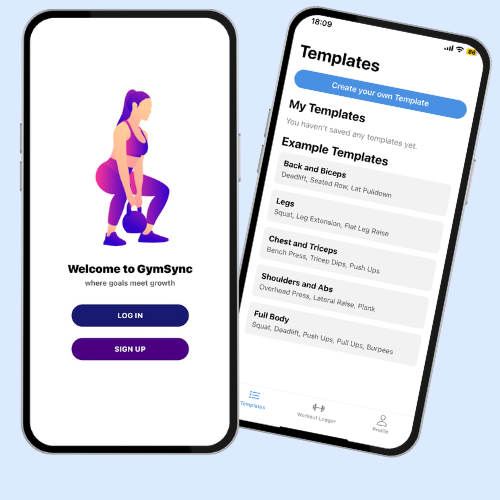
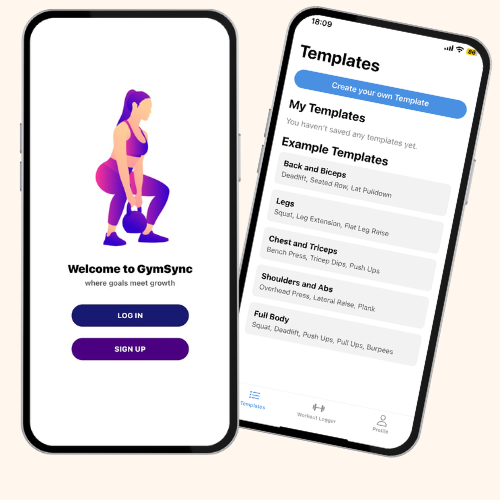
edits

Changed region(s): [[0.0, 0.0, 1.0, 1.0]]

diff --git a/src/index.css b/src/index.css
@@ -72,7 +72,7 @@
     -webkit-font-smoothing: antialiased;
     -moz-osx-font-smoothing: grayscale;
     background:
-      #f7f0d7 70%;  /* warm pale yellow */
+      #fffae8 70%;  /* warm pale yellow */
     min-height: 100vh;
     color: var(--portfolio-slate-900);
   }
